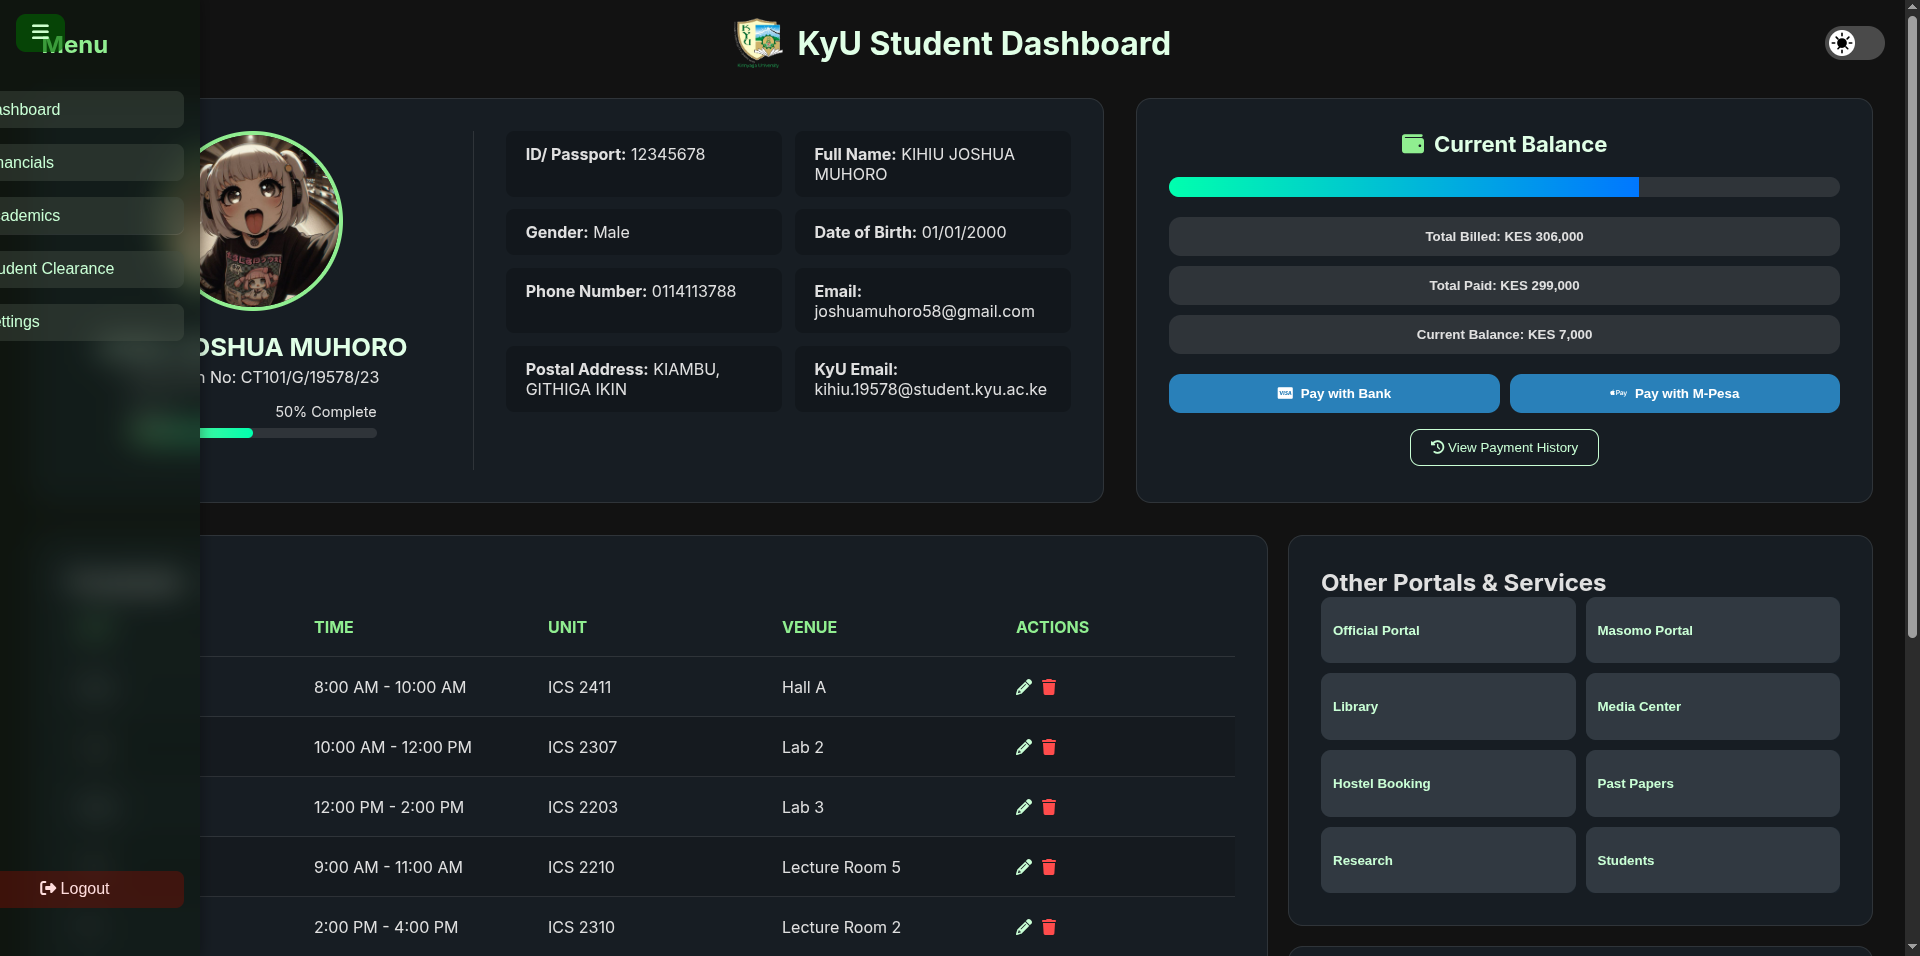
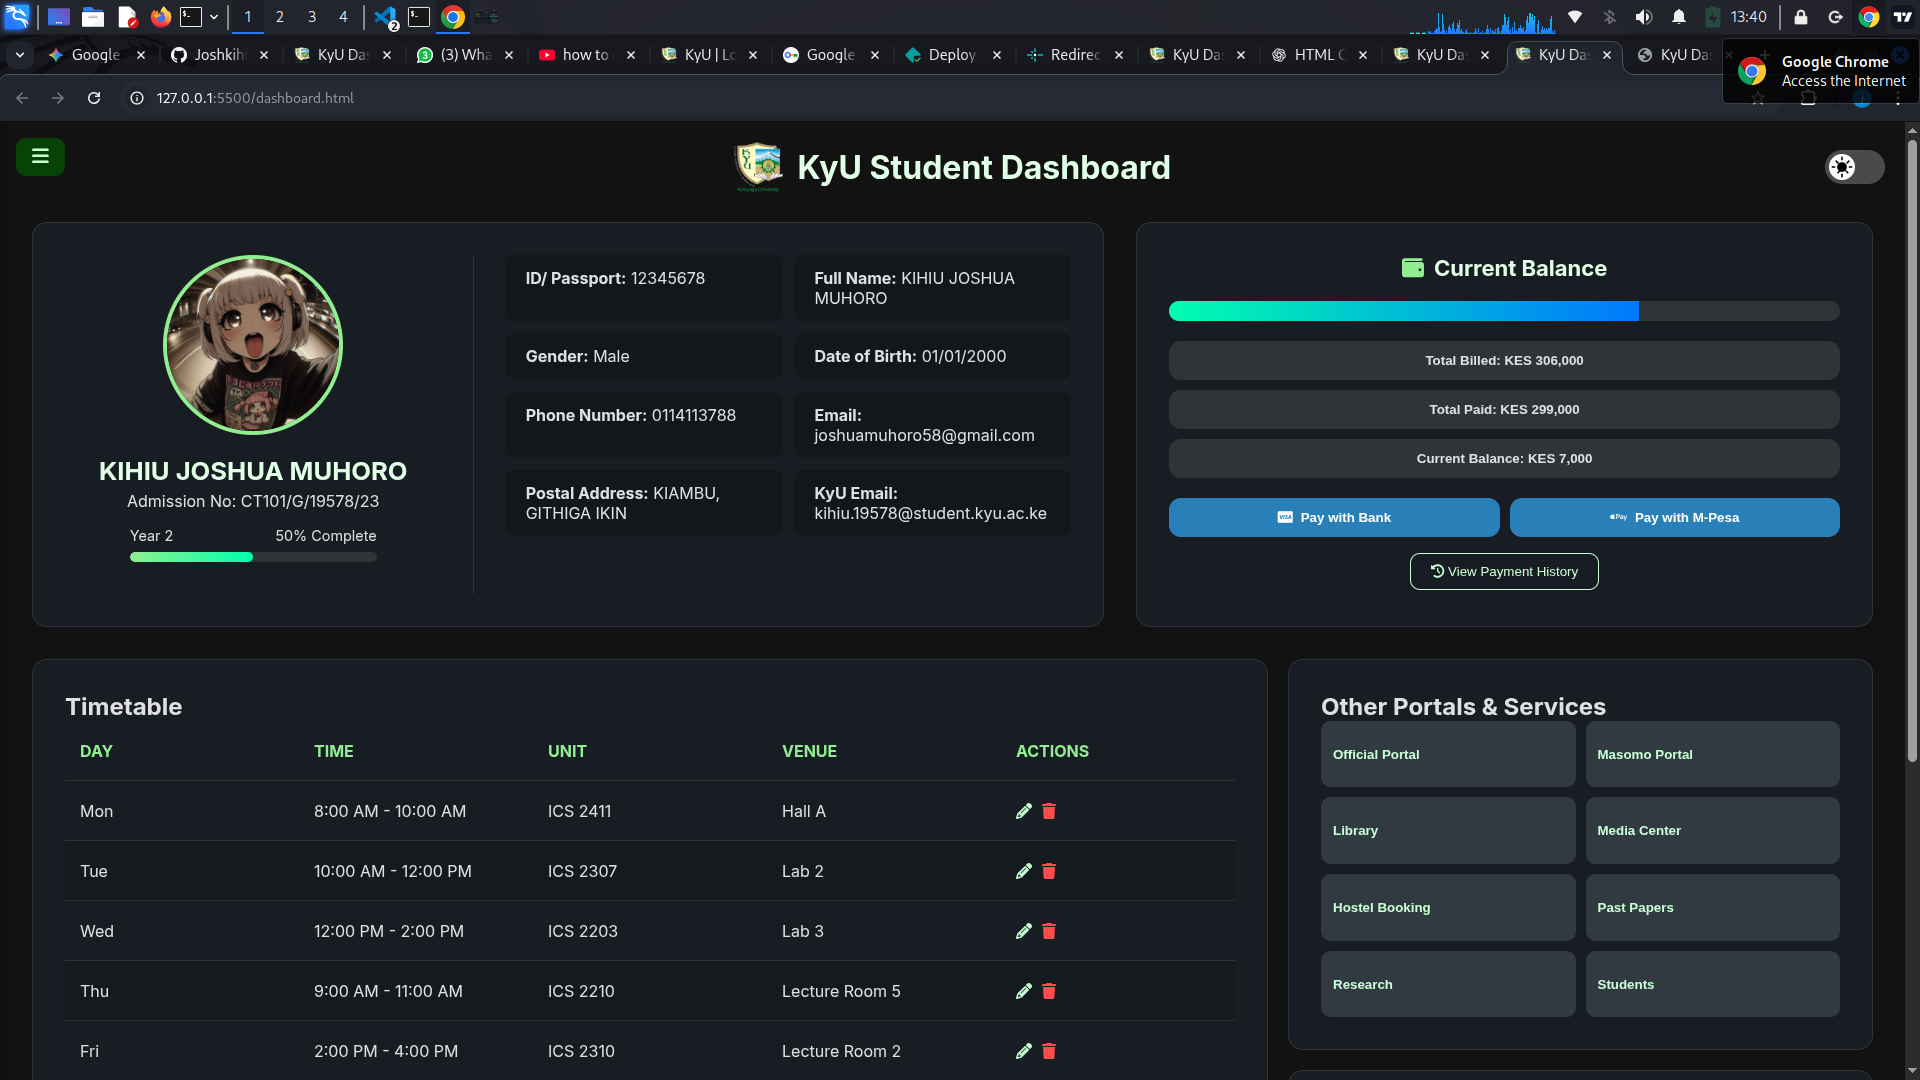
Quick update

diff --git a/README.md b/README.md
@@ -26,7 +26,7 @@ This project is a modern, upgraded version of a student dashboard for **Kirinyag
 
 **Dashboard View:**
 ![Dashboard Screenshot](images/dash.png)
-
+![Sidemenu Screenshot](images/side.png)
 <!-- **Mobile View:![Mobile Screenshot]()** -->
 
 ## 🚀 Setup and Usage
